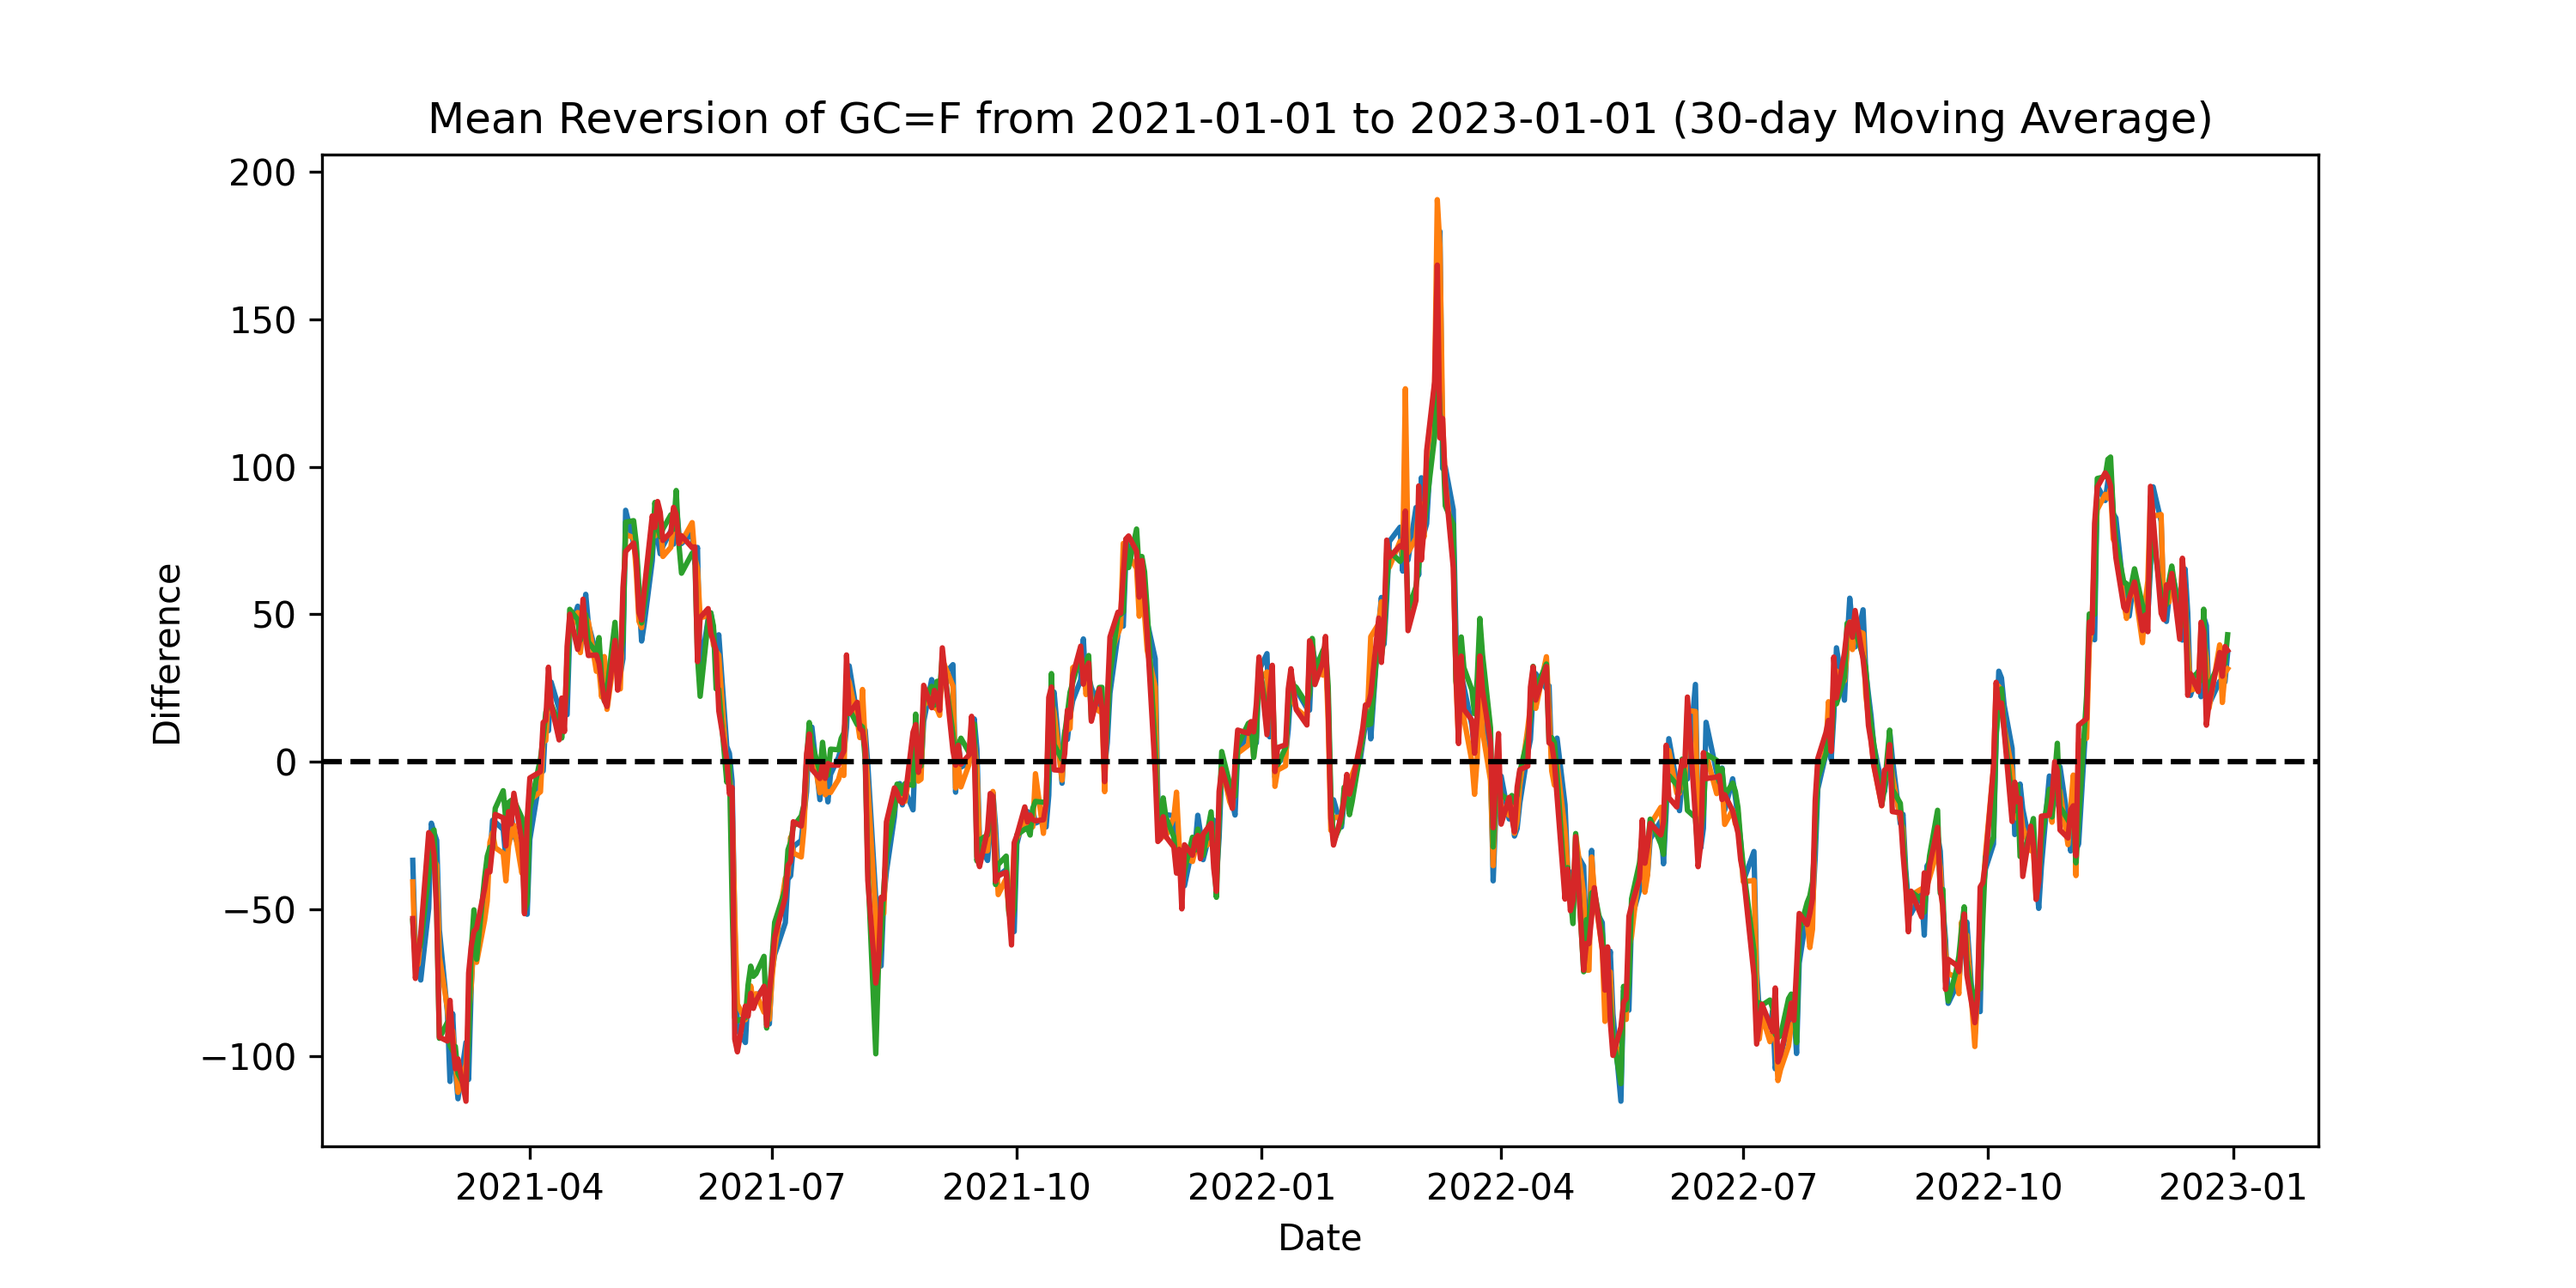
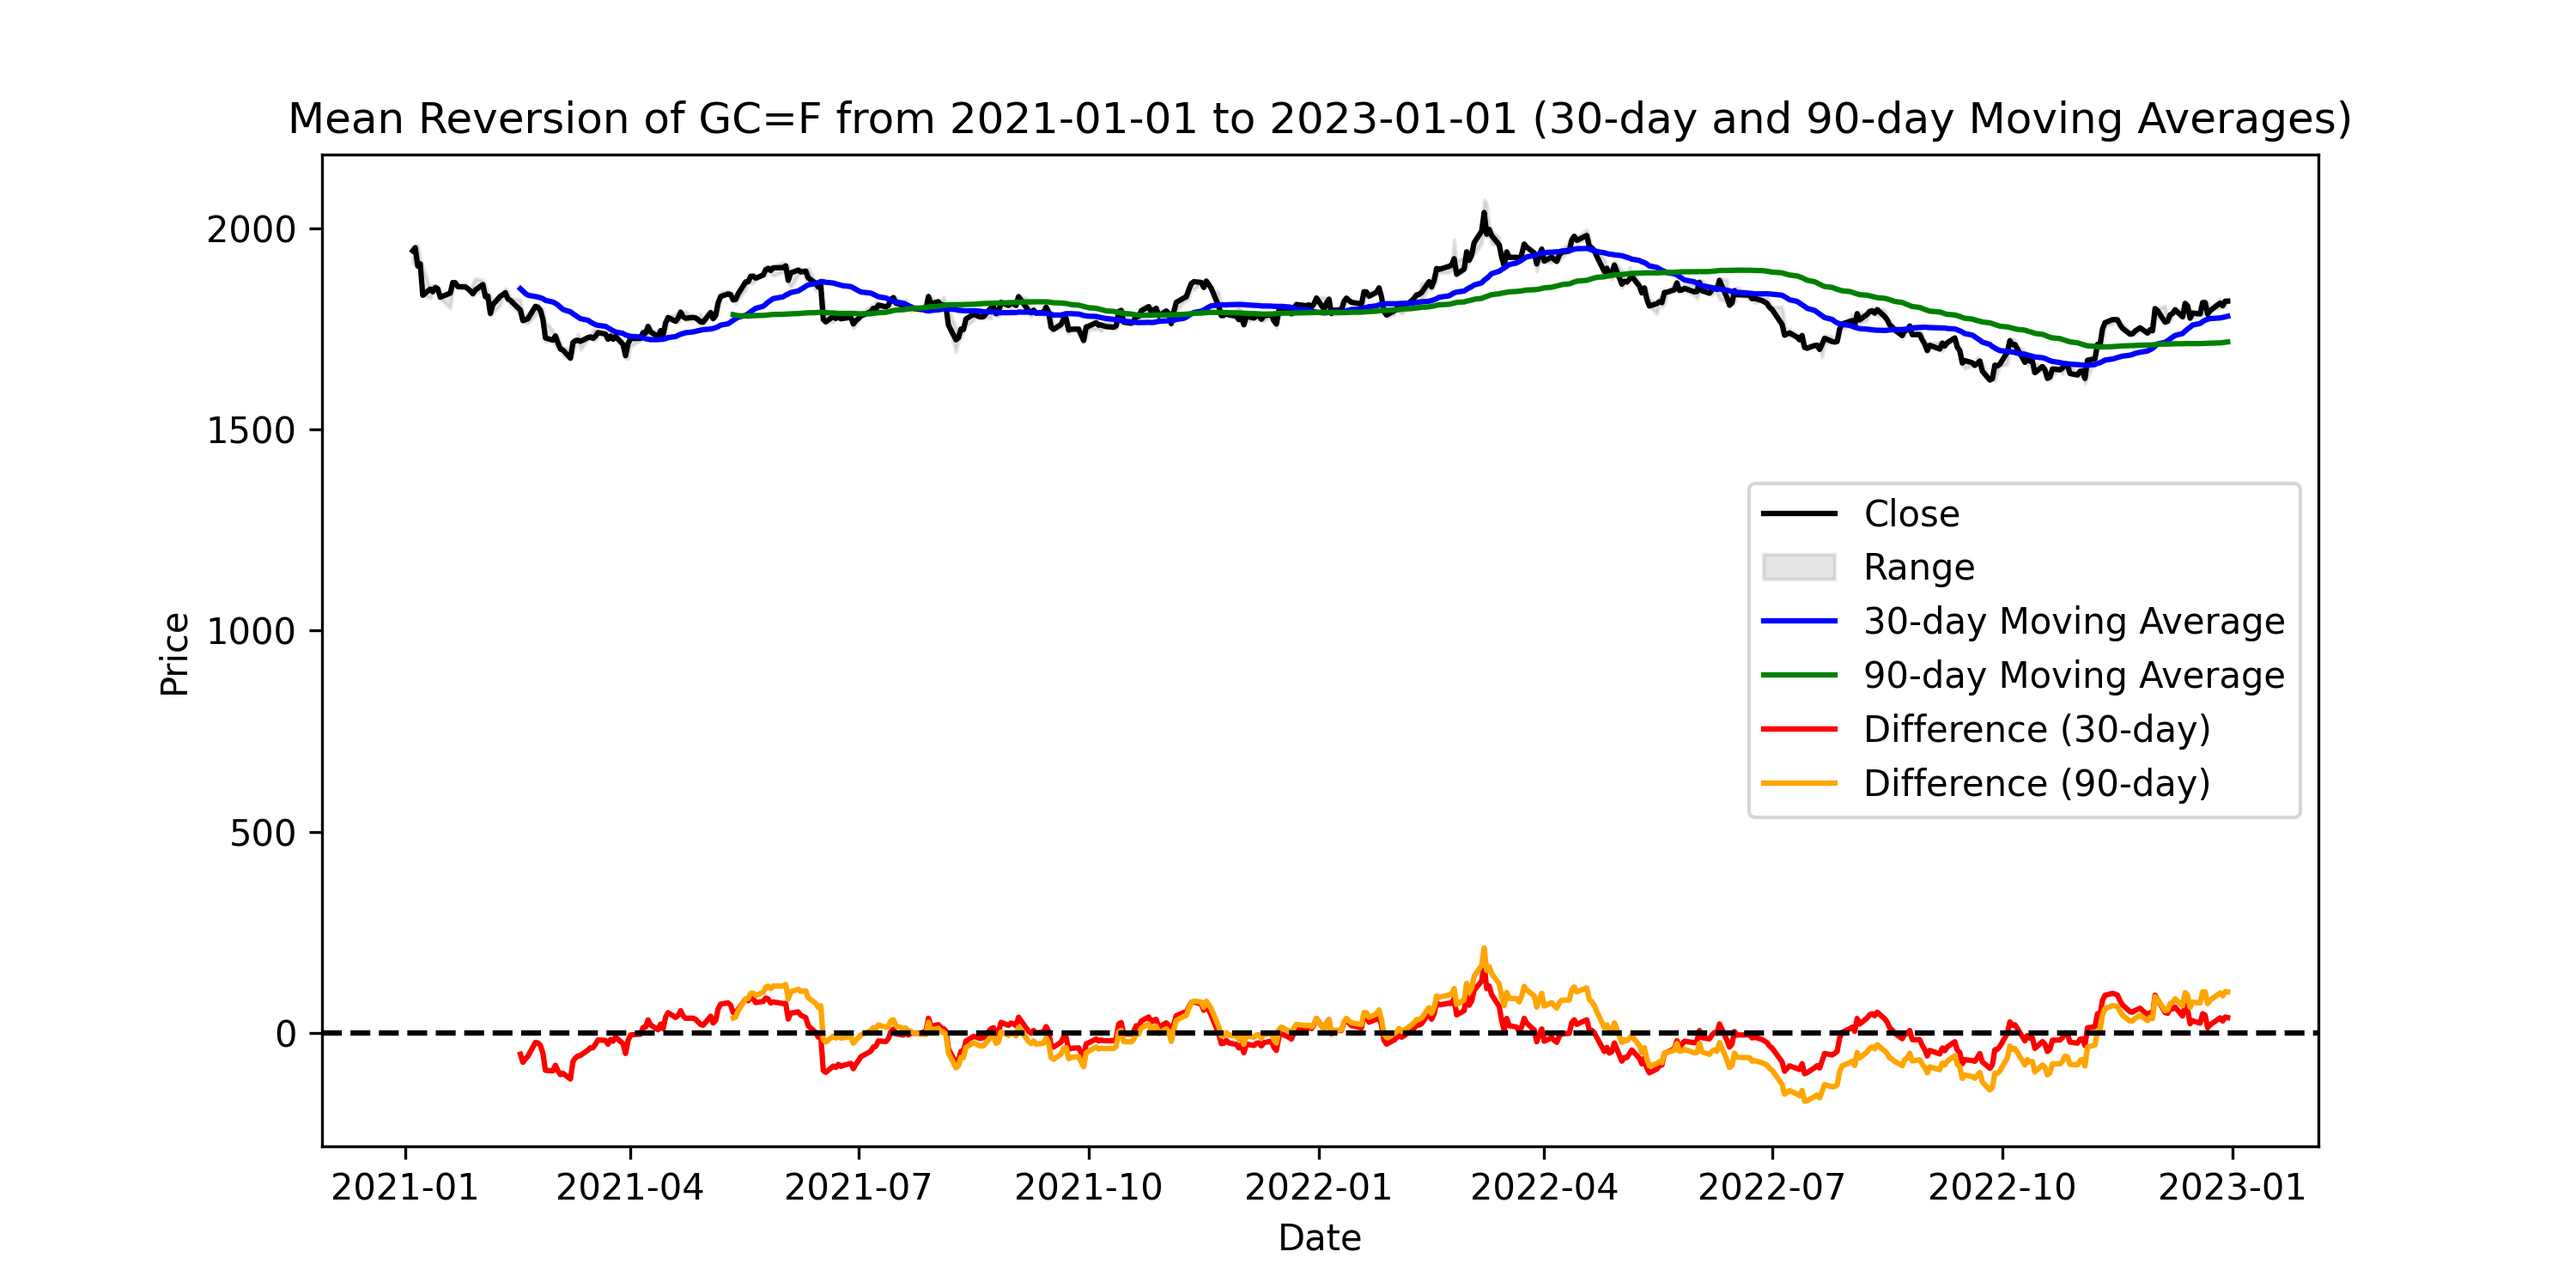
include 90-day ma and better plotting

diff --git a/gold_futures.py b/gold_futures.py
@@ -16,19 +16,39 @@ df = yf.download(symbol, start=start_date, end=end_date)
 # Extract the OHLC data from the DataFrame
 df = df[['Open', 'High', 'Low', 'Close']]
 
-# Calculate the 30-day moving average of the OHLC data
-df_mean = df.rolling(window=30).mean()
+# Calculate the 30-day and 90-day moving averages of the OHLC data
+df_mean_30 = df.rolling(window=30).mean()
+df_mean_90 = df.rolling(window=90).mean()
 
-# Calculate the difference between the OHLC data and the moving average
-df_diff = df.subtract(df_mean, axis=0)
+# Calculate the difference between the OHLC data and the moving averages
+df_diff_30 = df.subtract(df_mean_30, axis=0)
+df_diff_90 = df.subtract(df_mean_90, axis=0)
 
 # Plot the mean reversion
-plt.figure(figsize=(10,5))
-plt.plot(df_diff)
-plt.axhline(y=0, color='black', linestyle='--')
-plt.title(f'Mean Reversion of {symbol} from {start_date} to {end_date} (30-day Moving Average)')
-plt.xlabel('Date')
-plt.ylabel('Difference')
+fig, ax = plt.subplots(figsize=(10,5))
+
+# Plot the OHLC data
+ax.plot(df.index, df['Close'], label='Close', color='black')
+ax.fill_between(df.index, df['Low'], df['High'], alpha=0.2, label='Range', color='grey')
+
+# Plot the moving averages
+ax.plot(df_mean_30.index, df_mean_30['Close'], label='30-day Moving Average', color='blue')
+ax.plot(df_mean_90.index, df_mean_90['Close'], label='90-day Moving Average', color='green')
+
+# Plot the differences between the OHLC data and the moving averages
+ax.plot(df_diff_30.index, df_diff_30['Close'], label='Difference (30-day)', color='red')
+ax.plot(df_diff_90.index, df_diff_90['Close'], label='Difference (90-day)', color='orange')
+
+# Add a horizontal line at y=0
+ax.axhline(y=0, color='black', linestyle='--')
+
+# Add a title, axis labels, and legend
+ax.set_title(f'Mean Reversion of {symbol} from {start_date} to {end_date} (30-day and 90-day Moving Averages)')
+ax.set_xlabel('Date')
+ax.set_ylabel('Price')
+ax.legend(loc='best')
+
+# Save the plot to a file
 plt.savefig('mean_reversion_ma.png', dpi=300)
 
 # Show the plot
